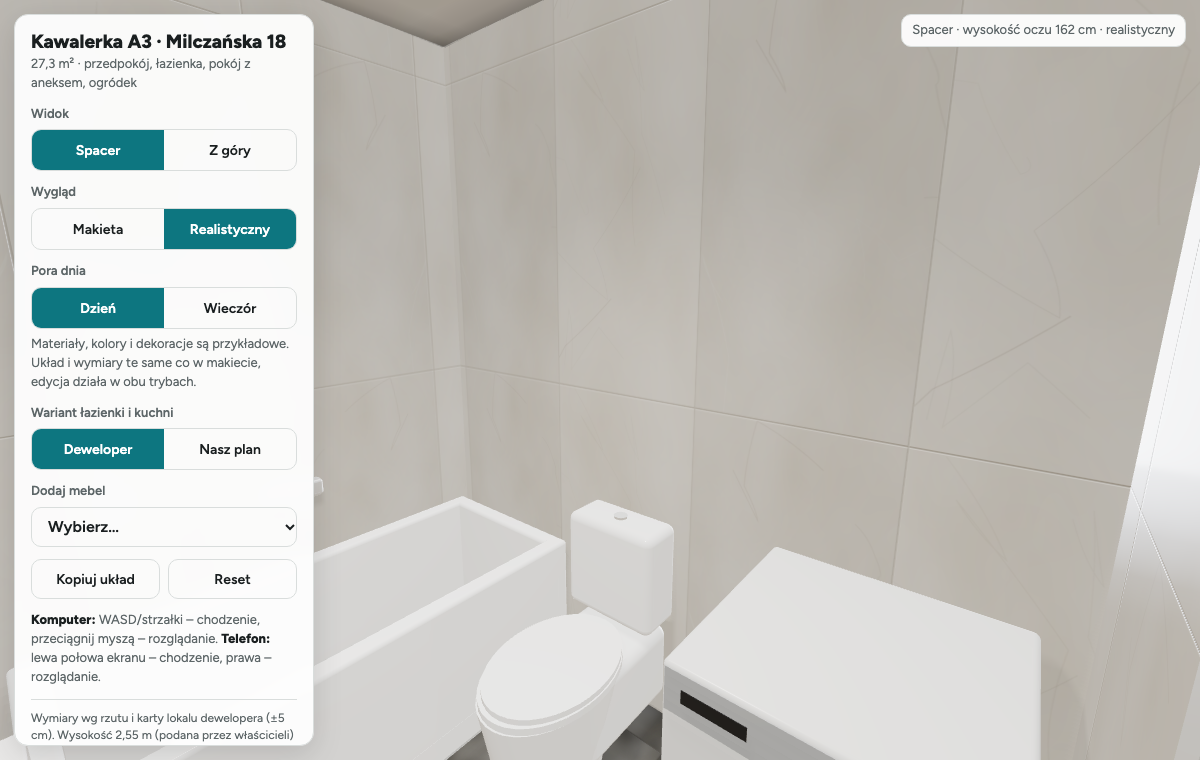
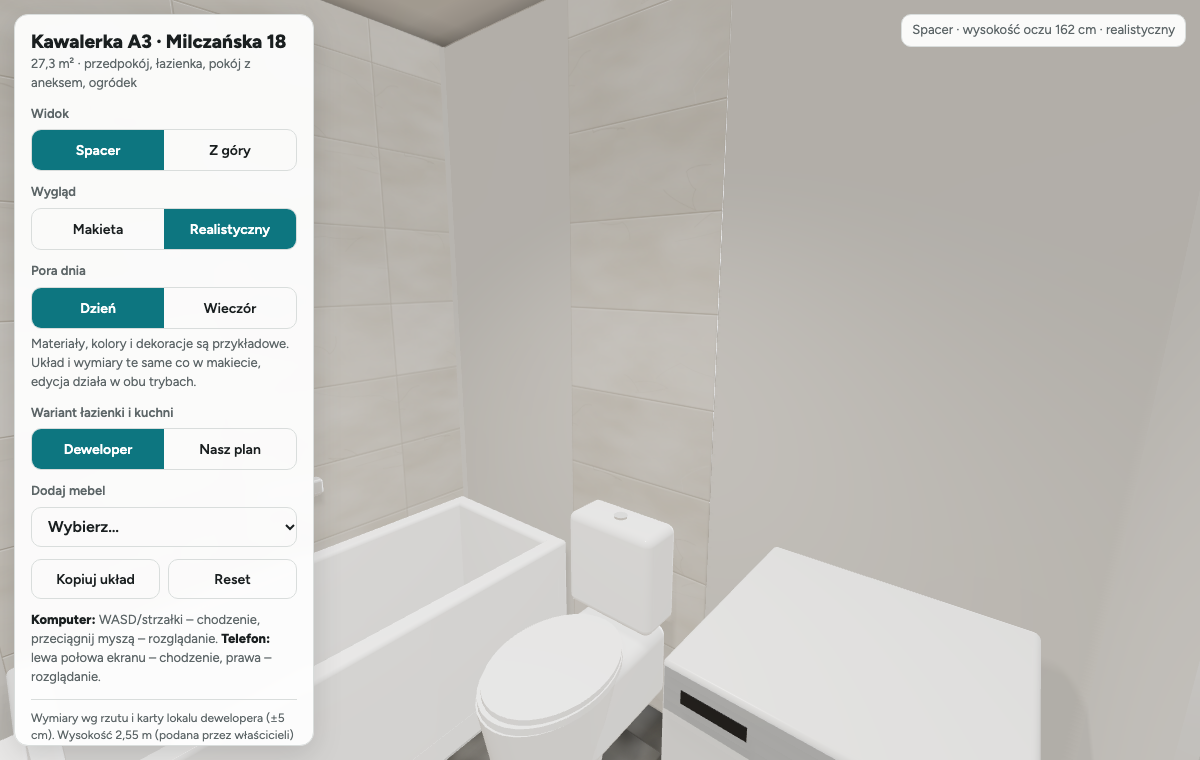
Poprawa płytek w łazience

Changed region(s): [[0.925, 0.2118, 1.0, 0.7263]]

diff --git a/index.html b/index.html
@@ -390,7 +390,7 @@ function texGrad(){const[c,g]=cnv(4,64),gr=g.createLinearGradient(0,0,0,64);gr.a
 function makeTextures(){
  T.oak=tex(texWood('#b8946c','rgba(92,60,32,',512,1024,'oak'),.5,1);
  const[fc,fb]=texFloor();T.floor=tex(fc,1.2,2.4);T.floorB=tex(fb,1.2,2.4,false);
- const wt=texTiles({cols:2,rows:1,base:[228,223,214],jit:4,grout:'#cfcac1',gw:3,veins:7,seed:'wt',noise:.18});T.wallTile=tex(wt[0],1.2,1.2);T.wallTileB=tex(wt[1],1.2,1.2,false);
+ const wt=texTiles({cols:2,rows:4,base:[228,223,214],jit:4,grout:'#cfcac1',gw:3,veins:3,seed:'wt',noise:.18});T.wallTile=tex(wt[0],1.2,1.2);T.wallTileB=tex(wt[1],1.2,1.2,false);
  const ft=texTiles({cols:2,rows:2,base:[128,126,121],jit:7,grout:'#6c6964',gw:3,seed:'ft',noise:.45});T.floorTile=tex(ft[0],1.2,1.2);T.floorTileB=tex(ft[1],1.2,1.2,false);
  const sb=texTiles({W:512,H:512,cols:4,rows:8,base:[245,244,240],jit:3,grout:'#d8d5ce',gw:3,stagger:true,seed:'sub',noise:.12});T.sub=tex(sb[0],.8,.8);T.subB=tex(sb[1],.8,.8,false);
  const pv=texTiles({W:512,H:512,cols:4,rows:4,base:[184,180,171],jit:9,grout:'#7f7b74',gw:4,seed:'pave',noise:.4});T.pave=tex(pv[0],1.6,1.6);T.paveB=tex(pv[1],1.6,1.6,false);
@@ -515,6 +515,9 @@ function buildReal(it){
    if(handle==='bar'){const hl=Math.min(.2,mw*.55);bx(x+mw/2-hl/2,x+mw/2+hl/2,b-.05,b-.036,Z1,Z1+.02,MAT.handle,.005)}
    else if(handle==='vbar'&&ri===0){const hx=i%2?x+.045:x+mw-.045,hl=Math.min(.32,(b-a)*.35),hy=Math.min(b-hl/2-.05,Math.max(a+hl/2+.05,1.05));bx(hx-.006,hx+.006,hy-hl/2,hy+hl/2,Z1,Z1+.022,MAT.handle,.005)}});x+=mw})};
  const plinth=(y1=.1)=>bx(X0+.01,X1-.01,0,y1,Z0+.02,Z1-.06,MAT.plinth);
+ // płytki 60×30: UV od lewego dolnego rogu panelu, więc siatka fug zaczyna się od krawędzi (pełna płytka przy podłodze/blacie)
+ const tileBox=(x0,x1,y0,y1,z0,z1)=>add(boxUV(new THREE.BoxGeometry(x1-x0,y1-y0,z1-z0).translate((x1-x0)/2,(y1-y0)/2,(z1-z0)/2)),MAT.wallTile,x0,y0,z0);
+ const tile=(x0,x1,y0,y1,z0,z1)=>{if(mode==='walk')tileBox(x0,x1,y0,y1,z0,z1)}; // okładzina ściany (z góry ukryta, jak ściany)
  switch(it.kind){
   case'wardrobe':{
    if(/rega/i.test(it.name)){const t=.018;bx(X0,X0+t,0,h,Z0,Z1,body);bx(X1-t,X1,0,h,Z0,Z1,body);bx(X0,X1,0,.06,Z0,Z1,body);bx(X0,X1,h-t,h,Z0,Z1,body);bx(X0+t,X1-t,.06,h-t,Z0,Z0+.008,body);
@@ -530,7 +533,8 @@ function buildReal(it){
    const ys=sp.concat([h]);fronts(sp[0],h,null,body,'vbar',ys.slice(0,-1).map((y,i)=>[y,ys[i+1]]));break}
   case'upper':{
    if(it.color===COL.tiles){ // zabudowa / obudowa GK: płytki w łazience, farba poza nią
-    const bath=it.x>2&&it.x<4.25&&it.z<1.96;bx(X0,X1,0,h,Z0,Z1,bath?MAT.wallTile:MAT.paint);
+    const bath=it.x>2&&it.x<4.25&&it.z<1.96;if(bath)tileBox(X0,X1,0,h,Z0,Z1);else bx(X0,X1,0,h,Z0,Z1,MAT.paint);
+    if(bath&&face==='+z'&&h<H-.05&&it.z+it.d/2>1.9)tile(X0,X1,h,H,Z1-.008,Z1); // ściana za WC nad zabudową stelaża, do sufitu
     if(it.id==='nSt'){const wc=state.items.find(o=>o.kind==='wc'&&visible(o)),px=wc?Math.max(X0+.15,Math.min(X1-.15,wc.x-it.x)):0,zp=-it.d/2; // przycisk spłuczki od strony WC (−z)
      mesh(boxUV(RB(.25,.16,.008,.003,1)),MAT.chrome,px,.95,zp-.004,g);mesh(boxUV(RB(.07,.11,.006,.003,1)),MAT.steel,px-.04,.95,zp-.01,g);mesh(boxUV(RB(.07,.11,.006,.003,1)),MAT.steel,px+.04,.95,zp-.01,g)}
     break}
@@ -586,19 +590,19 @@ function buildReal(it){
   case'sink':{const cab=it.color===COL.oak,tk=cab?.03:.14;
    if(cab){bx(X0+.005,X1-.005,.45,h-.15,Z0,Z1-FT,MAT.oak);bx(X0+.005,X0+.02,h-.15,h-tk,Z0,Z1-FT,MAT.oak);bx(X1-.02,X1-.005,h-.15,h-tk,Z0,Z1-FT,MAT.oak);fronts(.45,h-tk,[L],MAT.oak,'none');bx(X0+.04,X1-.04,h-tk-.035,h-tk-.025,Z1-.004,Z1+.001,MAT.plinth)}
    else cyl(.02,.02,.32,0,h-tk-.32,Z0+.08,MAT.chrome);
-   basinTop(P,X0,X1,Z0,Z1,h,tk);faucet(P,0,h,Z0+.055,.2,.12);break}
-  case'bath':{const t=.07,m=MAT.acrylic;bx(X0,X1,0,.1,Z0,Z1,m);bx(X0,X1,0,h,Z0,Z0+t,m,.015);bx(X0,X1,0,h,Z1-t,Z1,m,.015);bx(X0,X0+t,0,h,Z0,Z1,m,.015);bx(X1-t,X1,0,h,Z0,Z1,m,.015);
+   basinTop(P,X0,X1,Z0,Z1,h,tk);faucet(P,0,h,Z0+.055,.2,.12);tile(-.3,.3,h,h+.3,Z0,Z0+.008);break}
+  case'bath':{const t=.07,m=MAT.acrylic;tile(X0,X1,0,H,Z0,Z0+.008);bx(X0,X1,0,.1,Z0,Z1,m);bx(X0,X1,0,h,Z0,Z0+t,m,.015);bx(X0,X1,0,h,Z1-t,Z1,m,.015);bx(X0,X0+t,0,h,Z0,Z1,m,.015);bx(X1-t,X1,0,h,Z0,Z1,m,.015);
    cyl(.025,.025,.004,X0+.25,.1,0,MAT.chrome);bx(-.1,.1,h+.24,h+.3,Z0-.0,Z0+.05,MAT.chrome,.01);bx(-.015,.015,h+.22,h+.25,Z0+.05,Z0+.15,MAT.chrome,.006);break}
   case'wc':{const hung=it.v==='nasz'||/podwiesz/i.test(it.name),m=MAT.ceramic,sx=Math.min(L/2,.185),rz=Math.min(.26,D*.48),zc=Z1-rz,yt=h-.04,yb=hung?h-.34:0;
    const bw=add(new THREE.CylinderGeometry(1,.72,1,40),m,0,(yt+yb)/2,zc);bw.scale.set(sx,yt-yb,rz);
    bx(-sx*.85,sx*.85,yb+(hung?.02:.1),yt,Z0,zc,m,.04);
    const st=add(new THREE.CylinderGeometry(1,1,.022,40),m,0,yt+.011,zc-.01);st.scale.set(sx+.004,1,rz+.004);
    const ld=add(new THREE.CylinderGeometry(1,1,.018,40),m,0,yt+.031,zc-.015);ld.scale.set(sx,1,rz-.005);
-   if(!hung){bx(-.18,.18,h,h+.36,Z0,Z0+.17,m,.03);cyl(.025,.025,.008,0,h+.36,Z0+.085,MAT.chrome)}break}
+   if(!hung){tile(-.3,.3,0,H,Z0,Z0+.008);bx(-.18,.18,h,h+.36,Z0,Z0+.17,m,.03);cyl(.025,.025,.008,0,h+.36,Z0+.085,MAT.chrome)}break}
   case'washer':{const m=MAT.appl;bx(X0,X1,0,h,Z0,Z1,m,.015);bx(X0+.01,X1-.01,h-.11,h-.01,Z1-.002,Z1+.002,MAT.applGrey);const yc=h*.47;
    add(new THREE.TorusGeometry(.165,.025,16,48),MAT.chrome,0,yc,Z1+.01);add(new THREE.CircleGeometry(.16,48),MAT.blackGlass,0,yc,Z1+.006);
    const kn=add(new THREE.CylinderGeometry(.025,.025,.02,24),MAT.chrome,X1-.11,h-.06,Z1+.01);kn.rotation.x=Math.PI/2;bx(X0+.05,X0+.19,h-.075,h-.045,Z1+.002,Z1+.004,MAT.blackGlass);break}
-  case'shower':{bx(X0,X1,0,.04,Z0,Z1,MAT.tray,.01);const gh=Math.min(h,2);bx(X0,X0+.008,.04,.04+gh,Z0,Z1,MAT.glass).castShadow=false;bx(X0,X1,.04,.04+gh,Z0,Z0+.008,MAT.glass).castShadow=false;break}
+  case'shower':{bx(X0,X1,0,.04,Z0,Z1,MAT.tray,.01);tile(X1-.008,X1,0,H,Z0,Z1);tile(X0,X1,0,H,Z1-.008,Z1);const gh=Math.min(h,2);bx(X0,X0+.008,.04,.04+gh,Z0,Z1,MAT.glass).castShadow=false;bx(X0,X1,.04,.04+gh,Z0,Z0+.008,MAT.glass).castShadow=false;break}
   case'showerq':{const w=L,d=D,gh=Math.min(h,2),r=Math.min(w,d)*.6,sx=w-r,sz=d-r,cx=-w/2+r,cz=-d/2+r;
    const sh=new THREE.Shape();sh.moveTo(w/2,d/2);sh.lineTo(-w/2,d/2);sh.lineTo(-w/2,cz);sh.absarc(cx,cz,r,Math.PI,Math.PI*1.5,false);sh.lineTo(w/2,-d/2);sh.lineTo(w/2,d/2);
    const tg=new THREE.ExtrudeGeometry(sh,{depth:.036,bevelEnabled:true,bevelThickness:.004,bevelSize:.003,bevelSegments:2,curveSegments:32});tg.rotateX(Math.PI/2);tg.translate(0,.04,0);add(tg,MAT.tray);
@@ -608,6 +612,7 @@ function buildReal(it){
    bx(-w/2,-w/2+.02,.04,.04+gh,d/2-.02,d/2,MAT.chrome);bx(w/2-.02,w/2,.04,.04+gh,-d/2,-d/2+.02,MAT.chrome);
    const ha=1.25*Math.PI;cyl(.009,.009,.3,cx+r*Math.sin(ha)-.012,.85,cz+r*Math.cos(ha)-.012,MAT.chrome,12);
    bx(.05,.17,.0405,.043,.05,.17,MAT.steel);
+   tile(w/2-.008,w/2,0,H,-d/2,d/2);tile(-w/2,w/2,0,H,d/2-.008,d/2);
    const px=w/2-.3,pz=d/2-.03;cyl(.012,.012,1.08,px,1,pz,MAT.chrome,16);const arm=add(new THREE.CylinderGeometry(.01,.01,.32,12),MAT.chrome,px,2.07,pz-.16);arm.rotation.x=Math.PI/2;
    cyl(.13,.13,.012,px,2.04,pz-.32,MAT.chrome,40);bx(px-.045,px+.045,.95,1.12,pz-.03,pz+.03,MAT.chrome,.01);
    const hs=add(new THREE.CylinderGeometry(.02,.014,.24,16),MAT.chrome,px-.06,1.42,pz-.02);hs.rotation.z=.25;break}
@@ -637,9 +642,8 @@ function makeReal(){
  // ściany (te same co w makiecie) + szacht
  WALLS.forEach(([x0,x1,z0,z1,y0,y1])=>wbox(x0,x1,y0,y1,z0,z1,MAT.paint,y0===0?walls:upper));
  wbox(3.65,4.25,0,H,2.07,2.76,MAT.paint);
- // łazienka: płytki do sufitu (okładzina 8 mm)
- const tt=.008;wbox(2,4.25,0,H,0,tt,MAT.wallTile);wbox(4.25-tt,4.25,0,H,0,1.95,MAT.wallTile);wbox(2,4.25,0,H,1.95-tt,1.95,MAT.wallTile);
- wbox(2,2+tt,0,H,0,.35,MAT.wallTile);wbox(2,2+tt,0,H,1.15,1.95,MAT.wallTile);wbox(2,2+tt,DOOR,H,.35,1.15,MAT.wallTile,upper);
+ // łazienka: ściany malowane na biało; płytki 60×30 tylko za WC, przy prysznicu i jedna nad umywalką – rysuje je buildReal przy meblach
+ const tt=.008;
  // podłogi
  plane(0,1.88,0,2.07,0,MAT.floor);plane(0,4.25,2.07,6.7,0,MAT.floor);plane(1.88,2,.35,1.15,0,MAT.floor);plane(2,4.25,0,1.95,0,MAT.floorTile);
  wbox(1.9,2.01,0,.005,.35,1.15,MAT.steel,walls,false);wbox(1.72,3.42,0,.02,6.7,6.95,MAT.frame,walls,false);

diff --git a/CLAUDE.md b/CLAUDE.md
@@ -61,10 +61,13 @@ na etapie koncepcji, przed decyzjami instalacyjnymi. Interfejs i komentarze po p
 - Wybór zapisany w `localStorage` (klucz `a3-milczanska-styl`), link `index.html?styl=real` otwiera od razu ten tryb.
 - `makeReal()` (raz, przy pierwszym włączeniu): tekstury proceduralne w canvasie (`T`, deska, dąb, płytki, kamień, tkanina, trawa…),
   materiały PBR (`MAT`, fabryka `RM` – kolory w sRGB), mapa otoczenia z PMREM, architektura z tej samej listy `WALLS` co makieta,
-  płytki w łazience, cokoły, drzwi, zasłony, oprawy, obraz, ogród, elewacja, niebo, światła. Grupy: `REAL.walls` (skalowane w widoku z góry),
+  cokoły, drzwi, zasłony, oprawy, obraz, ogród, elewacja, niebo, światła. Grupy: `REAL.walls` (skalowane w widoku z góry),
   `REAL.upper` (ukrywane z góry: sufit, nadproża, elewacja, lampy), `REAL.base`.
 - Meble budowane w lokalnym układzie „front przy +z” (`frontOf(it)`, wyjątki w `FRONT` po id); `mods` i `sink` odwracane, gdy trzeba.
   Nowy rodzaj mebla = `case` w `build` (makieta) i w `buildReal`.
+- Łazienka (22.11.2026): ściany malowane na biało, płytki 60×30 (poziomo) tylko: zabudowa stelaża WC + ściana nad nią do sufitu,
+  ściany w narożniku prysznica do sufitu (z zabudową GK), jedna płytka 60×30 nad umywalką (blat → lustro). Panele płytek rysuje `buildReal`
+  przy meblach (`tile`/`tileBox`, fugi liczone od lewego dolnego rogu panelu), więc idą za meblem. Podłoga łazienki w płytkach.
 - „Pora dnia” (`applyTod`): dzień = słońce przez drzwi tarasowe + światło okna; wieczór = lampa nad stołem, LED pod szafkami, oprawy.
 - Cienie liczone tylko po zmianie (`renderer.shadowMap.autoUpdate=false`, po zmianie ustaw `renderer.shadowMap.needsUpdate=true`).
 - Materiały, kolory, dekoracje (rośliny, książki, obraz, zasłony, meble ogrodowe) są przykładowe – nie wynikają z decyzji właścicieli.
